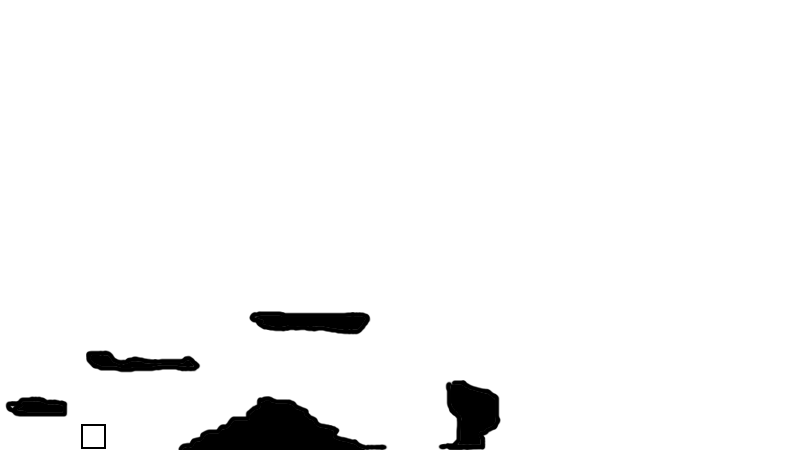
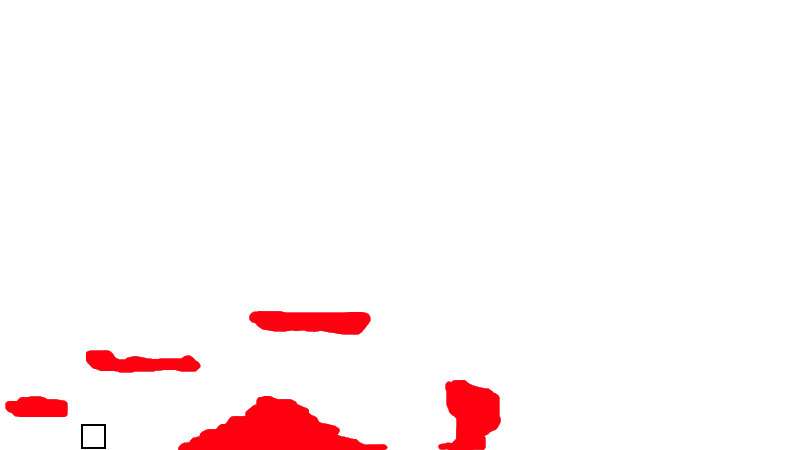
Nowa mapa (las) poprawiona eksplozja

diff --git a/core/src/pl/touk/liero/game/projectile/bazooka.kt b/core/src/pl/touk/liero/game/projectile/bazooka.kt
@@ -17,6 +17,7 @@ import pl.touk.liero.entity.entity
 import pl.touk.liero.game.cat_bulletRed
 import pl.touk.liero.game.mask_bulletRed
 import pl.touk.liero.script.Script
+import pl.touk.liero.utils.querySquare
 
 fun fireBazooka(ctx: Ctx, pos: Vector2, direction: Vector2) {
     ctx.engine.entity {
@@ -70,29 +71,21 @@ class BazookaProjectileScript(val hitPoints: Float,
 
 fun explosion(ctx: Ctx, pos:Vector2) {
     ctx.engine.entity {
-        body(ctx.world.body(BodyDef.BodyType.StaticBody) {
-            gravityScale = 0f
-            linearDamping = 0f
-            position.set(pos)
-            circle(ctx.params.bazookaRadius) {
-                isSensor = true
-                filter {
-                    categoryBits = cat_bulletRed
-                    maskBits = mask_bulletRed
+        position(pos)
+        lifeSpan(0.5f, ctx.worldEngine.timeMs)
+        texture(ctx.gameAtlas.findRegion("explosion"), ctx.params.bazookaRadius * 2, ctx.params.bazookaRadius * 2)
+    }
+    ctx.world.querySquare(pos, ctx.params.bazookaRadius * 2) {fixture ->
+        with(fixture.body.userData) {
+            if (this != null && this is Entity && this.contains(energy) && this.contains(body)) {
+                val distance = this[body].position.sub(pos).len()
+                if (distance <= ctx.params.bazookaRadius) {
+                    //this[energy].energy -= ctx.params.bazookaExplosionDamage * (1 - distance / ctx.params.bazookaRadius)
+                    this[energy].energy -= ctx.params.bazookaExplosionDamage
                 }
             }
-        })
-        lifeSpan(0.5f, ctx.worldEngine.timeMs)
-        texture(ctx.gameAtlas.findRegion("explosion"), ctx.params.bazookaRadius, ctx.params.bazookaRadius)
-        script(ExplosionScript(ctx.params.bazookaExplosionDamage))
-    }
-}
-
-class ExplosionScript(val damage: Float) : Script {
-    override fun beginContact(me: Entity, other: Entity, contact: Contact) {
-        if (other.contains(energy)) {
-            other[energy].energy -= damage
         }
+        true
     }
 }
 

diff --git a/core/src/pl/touk/liero/level/LevelMapLoader.kt b/core/src/pl/touk/liero/level/LevelMapLoader.kt
@@ -53,14 +53,18 @@ class LevelMapLoader(val ctx: Ctx) {
                 Color.rgba8888ToColor(color, map[tx, ty])
 
                 var count = 0
+                var redCount = 0
                 for (x in tx until (tx + gridSizePx)) {
                     for (y in ty until (ty + gridSizePx)) {
                         Color.rgba8888ToColor(color, map[x, y])
-                        if (color.r < valueThreshold || color.g < valueThreshold || color.b < valueThreshold)
+                        if (color.r * color.a > valueThreshold || color.g * color.a > valueThreshold || color.b * color.a > valueThreshold)
                             count++
+                        if (color.r > 0.5f)
+                            redCount++
                     }
                 }
                 val fillRatio = count.toFloat() / (gridSizePx * gridSizePx)
+                val redFillRatio = redCount.toFloat() / (gridSizePx * gridSizePx)
 
                 if (fillRatio > 0.7f) {
                     // static
@@ -76,8 +80,8 @@ class LevelMapLoader(val ctx: Ctx) {
                             }
                         })
                         texture(TextureRegion(texture, tx, ty, gridSizePx, gridSizePx), tileSizeMeters, tileSizeMeters)
-                        if (color.r > 0.5f) {
-                            energy(10f)
+                        if (redFillRatio > 0.5f) {
+                            energy(5f)
                         }
                     }
                 }

diff --git a/core/src/pl/touk/liero/PlayerScript.kt b/core/src/pl/touk/liero/PlayerScript.kt
@@ -74,16 +74,16 @@ class PlayerScript(val ctx: Ctx,
         }
         val direction = if (isRight) -1 else 1
 
-        control.up then {
+        if (control.up) {
             if (weapon.angle < ctx.params.weaponUpperAngle || MathUtils.PI - weapon.angle < ctx.params.weaponUpperAngle) {
                 weapon.angularVelocity = ctx.params.weaponRotationSpeed * control.yAxis * direction
             }
-        }
-
-        control.down then {
+        } else if (control.down) {
             if (weapon.angle > ctx.params.weaponLowerAngle && MathUtils.PI - weapon.angle > ctx.params.weaponLowerAngle) {
                 weapon.angularVelocity = ctx.params.weaponRotationSpeed * control.yAxis * direction
             }
+        } else {
+            weapon.angularVelocity = 0f
         }
 
         control.jumpJustPressed.then {

diff --git a/core/src/pl/touk/liero/Ctx.kt b/core/src/pl/touk/liero/Ctx.kt
@@ -181,7 +181,7 @@ class ShakyCamera: OrthographicCamera() {
     private var timer = 0f
     private var duration = 0f
 
-    private var amplitude = 0
+    private var amplitude = 0f
     private var frequency = 0
     private var isFading = true
 
@@ -189,7 +189,7 @@ class ShakyCamera: OrthographicCamera() {
 
     private fun ClosedRange<Int>.random() = Random().nextInt((endInclusive + 1) - start) +  start
 
-    fun shake(time: Float = 1f, amp: Int = 1, freq: Int = 15, fade: Boolean = true) {
+    fun shake(time: Float = 1f, amp: Float = 0.2f, freq: Int = 15, fade: Boolean = true) {
         shake = true
         timer = 0f
         duration = time

diff --git a/core/src/pl/touk/liero/utils/Box2d.kt b/core/src/pl/touk/liero/utils/Box2d.kt
@@ -64,6 +64,14 @@ fun World.querySquare(pos: Vector2, size: Float): Fixture? {
 }
 
 /**
+ * Szukaj obiektu w danym kwadracie
+ */
+fun World.querySquare(pos: Vector2, size: Float, callback: (Fixture) -> Boolean) {
+    myQueryCallback.foundFixture = null
+    this.QueryAABB(callback, pos.x - size / 2, pos.y - size / 2, pos.x + size / 2, pos.y + size / 2)
+}
+
+/**
  * Łatwiejszy dostęp do Fixture.filterData.maskBits, ważny jest setter, który poprawnie zmieni wartość
  */
 var Fixture.categoryBits: Short

diff --git a/core/src/pl/touk/liero/level/Level1.kt b/core/src/pl/touk/liero/level/Level1.kt
@@ -14,7 +14,7 @@ class Level1 : Level {
             it.playerColor = Color.BLACK
         })
         val loader = LevelMapLoader(ctx).also {
-            it.loadMap("forest")
+            it.loadMap("las")
         }
         width = loader.width
         height = loader.height
